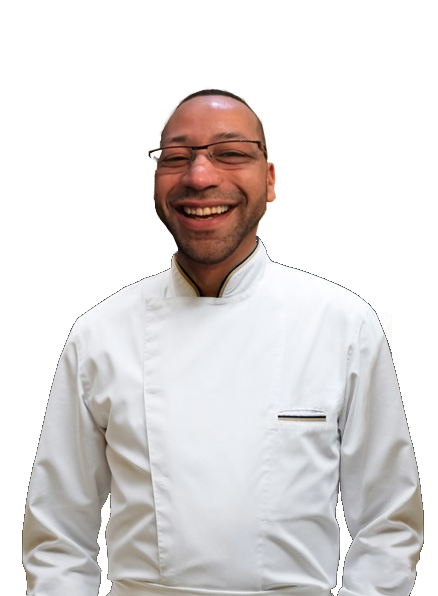
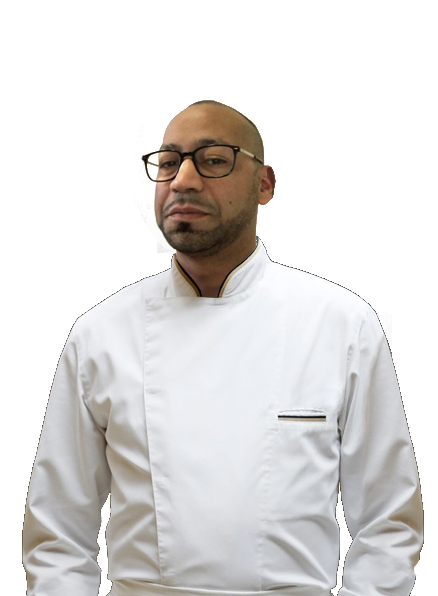
mise a jour

Changed region(s): [[0.3265, 0.151, 0.653, 0.5134], [0.9201, 0.9362, 0.9498, 0.9664]]

diff --git a/index.html b/index.html
@@ -90,7 +90,7 @@
       <div style="
           width: 100%;
           height: 100%;
-          background-image: url(/img/chef.png?v=2);
+          background-image: url(/img/chef.png?v=3);
           background-repeat: no-repeat;
           background-position: top center;
         "></div>

diff --git a/src/home/index.html b/src/home/index.html
@@ -114,7 +114,7 @@
         style="
           width: 100%;
           height: 100%;
-          background-image: url(/img/chef.png?v=2);
+          background-image: url(/img/chef.png?v=3);
           background-repeat: no-repeat;
           background-position: top center;
         "
